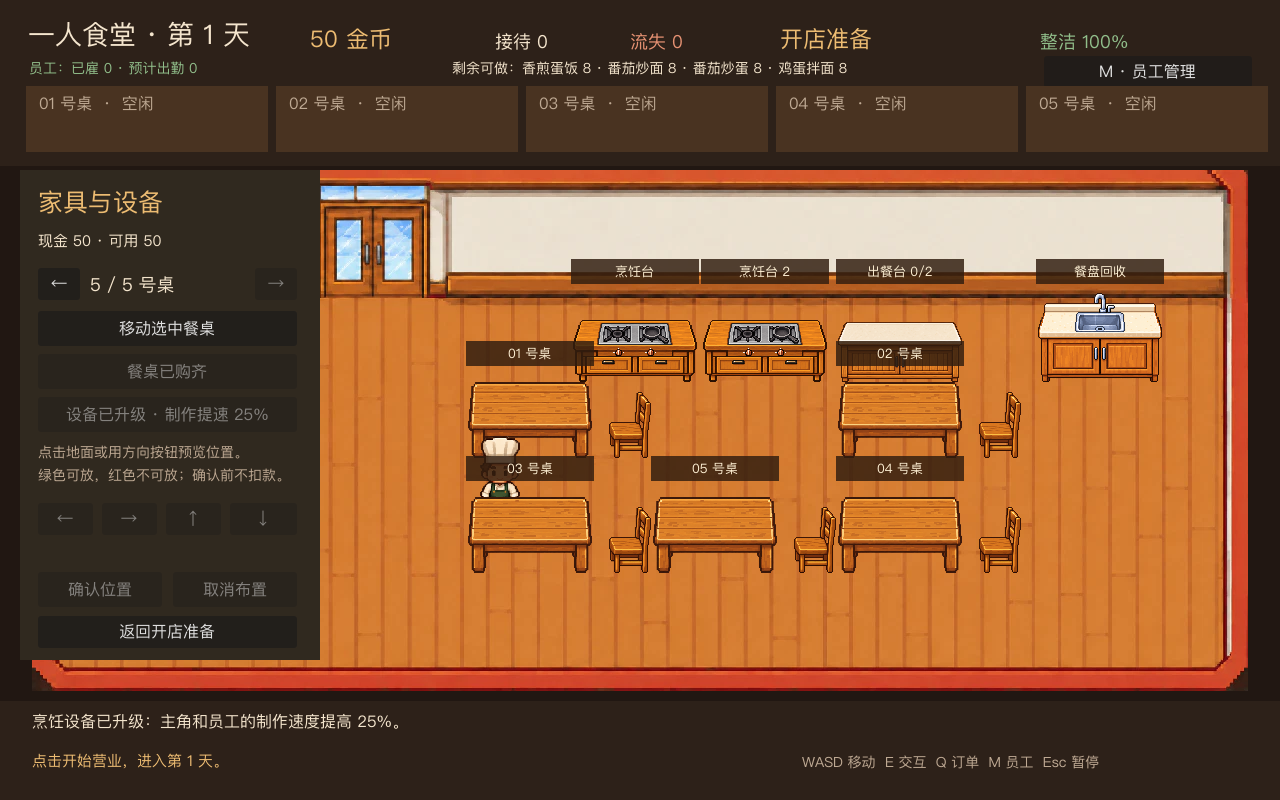
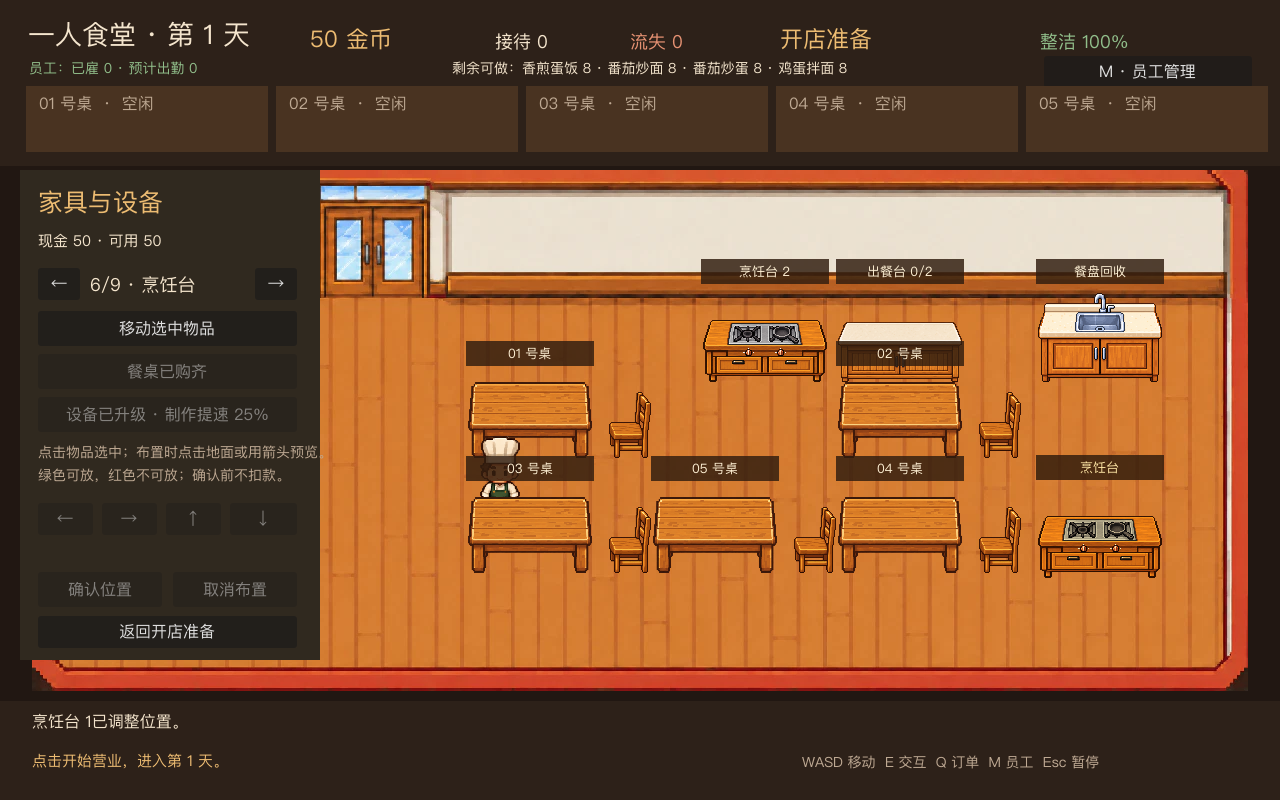
Allow placement of all restaurant furniture and stations

diff --git a/docs/stage-4-5.md b/docs/stage-4-5.md
@@ -1,15 +1,15 @@
 # 阶段 4.5：家具与设备
 
-开店准备时点击“家具设备”，可在左侧面板选择现有餐桌并移动，也可花 40 金币购买第五张餐桌。进入布置后，点击餐厅地面或使用面板上的方向按钮调整半透明预览；绿色表示可放，红色表示与家具重叠、越界或阻断必要通路。点击“确认位置”才会生效并付款，“取消布置”会恢复原状。营业期间不能更改家具。
+开店准备时点击“家具设备”，可直接点击物品，或用面板左右按钮选中任意现有餐桌、两处烹饪台、出餐台或餐盘回收台。餐桌与座椅成组移动。也可花 40 金币购买第五张餐桌。进入布置后，点击餐厅地面或使用面板上的方向按钮调整半透明预览；绿色表示可放，红色表示与其他物品重叠、越界或阻断必要通路。点击“确认位置”才会生效；移动免费，购买餐桌在确认时付款。“取消布置”会恢复原状。营业期间不能更改布局。
 
 ![新增餐桌的布置预览](stage-4-5-placement.webp)
 
-新餐桌有独立的顶部订单卡，顾客会沿可通行地面走到座位，主角和员工都能正常上菜、收盘与清洁。原有餐桌调整后，员工会重建寻路路线。布局检查包括家具与设备的占地、入口至各餐桌和工作台的通路，以及操作点和座位附近的可达性。
+新餐桌有独立的顶部订单卡，顾客会沿当前布局的可通行地面走到座位。设备移动后，主角和员工会在新位置做菜、取餐或回收餐盘。每次确认布局都会重建员工寻路路线。布局检查包括所有家具和设备的占地、入口至各餐桌和工作台的通路、操作点与座位附近的可达性，以及主角和员工的出发位置。
 
 烹饪设备可花 70 金币升级一次。升级后，主角小游戏和员工自动做菜的制作速度均提高 25%；面板会显示价格与效果。家具和设备使用经营账本分别记账，重复购买不会重复扣款。
 
-![第五张餐桌与已升级设备](stage-4-5-upgraded.webp)
+![第五张餐桌与已移动的烹饪台](stage-4-5-upgraded.webp)
 
-餐桌位置、购买状态和设备升级在当前游戏的跨营业日经营中保留；按“新游戏”会重置。由于按当前开发顺序暂缓 4.4 存档，退出程序后的持久化留待 4.4 实现。
+餐桌位置、功能设备位置、购买状态和设备升级在当前游戏的跨营业日经营中保留；按“新游戏”会重置。由于按当前开发顺序暂缓 4.4 存档，退出程序后的持久化留待 4.4 实现。
 
-`tests/test_layout_equipment.gd` 覆盖越界、重叠、可达性、购买与升级扣款、第五张桌的顾客到达/上菜/收盘、员工寻路、跨日与重置，以及员工空闲慢速走动和接单。两张图片由 `tests/capture_stage_4_5.gd` 从实际游戏场景生成，均小于 400KB。
+`tests/test_layout_equipment.gd` 覆盖餐桌和四台设备的布置、越界、重叠、可达性、购买与升级扣款、第五张桌的顾客到达/上菜/收盘、移动后的工作点交互、跨日与重置，以及员工空闲慢速走动和接单。两张图片由 `tests/capture_stage_4_5.gd` 从实际游戏场景生成，均小于 400KB。
